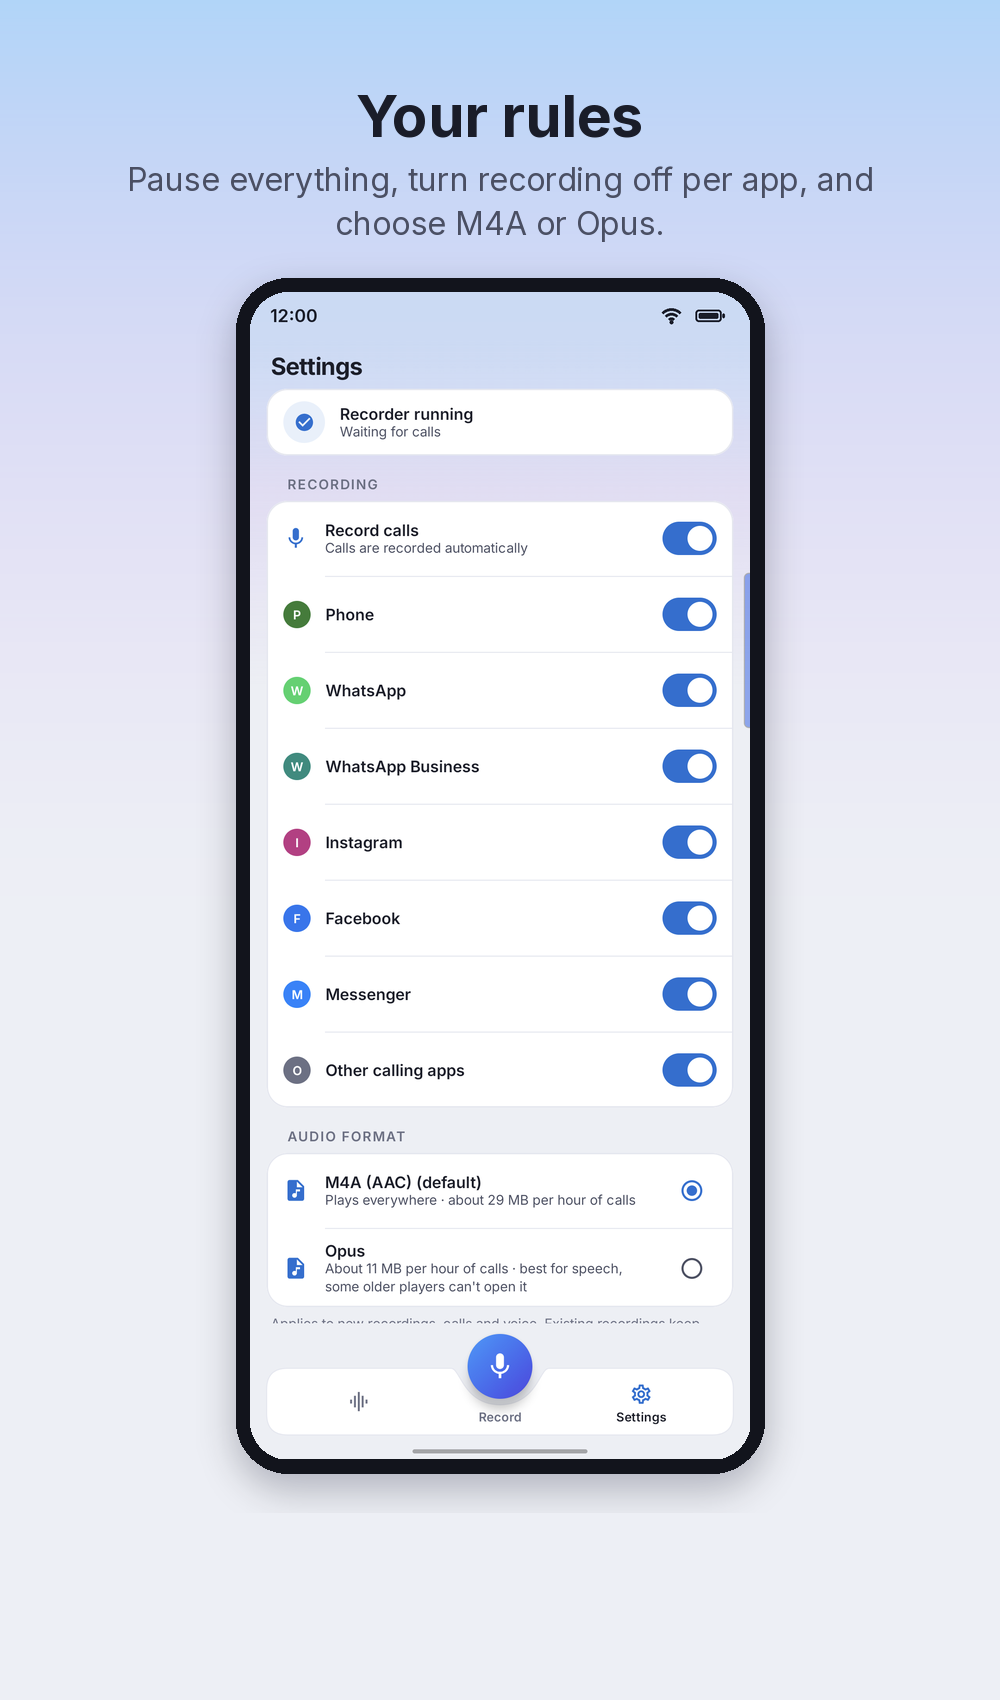
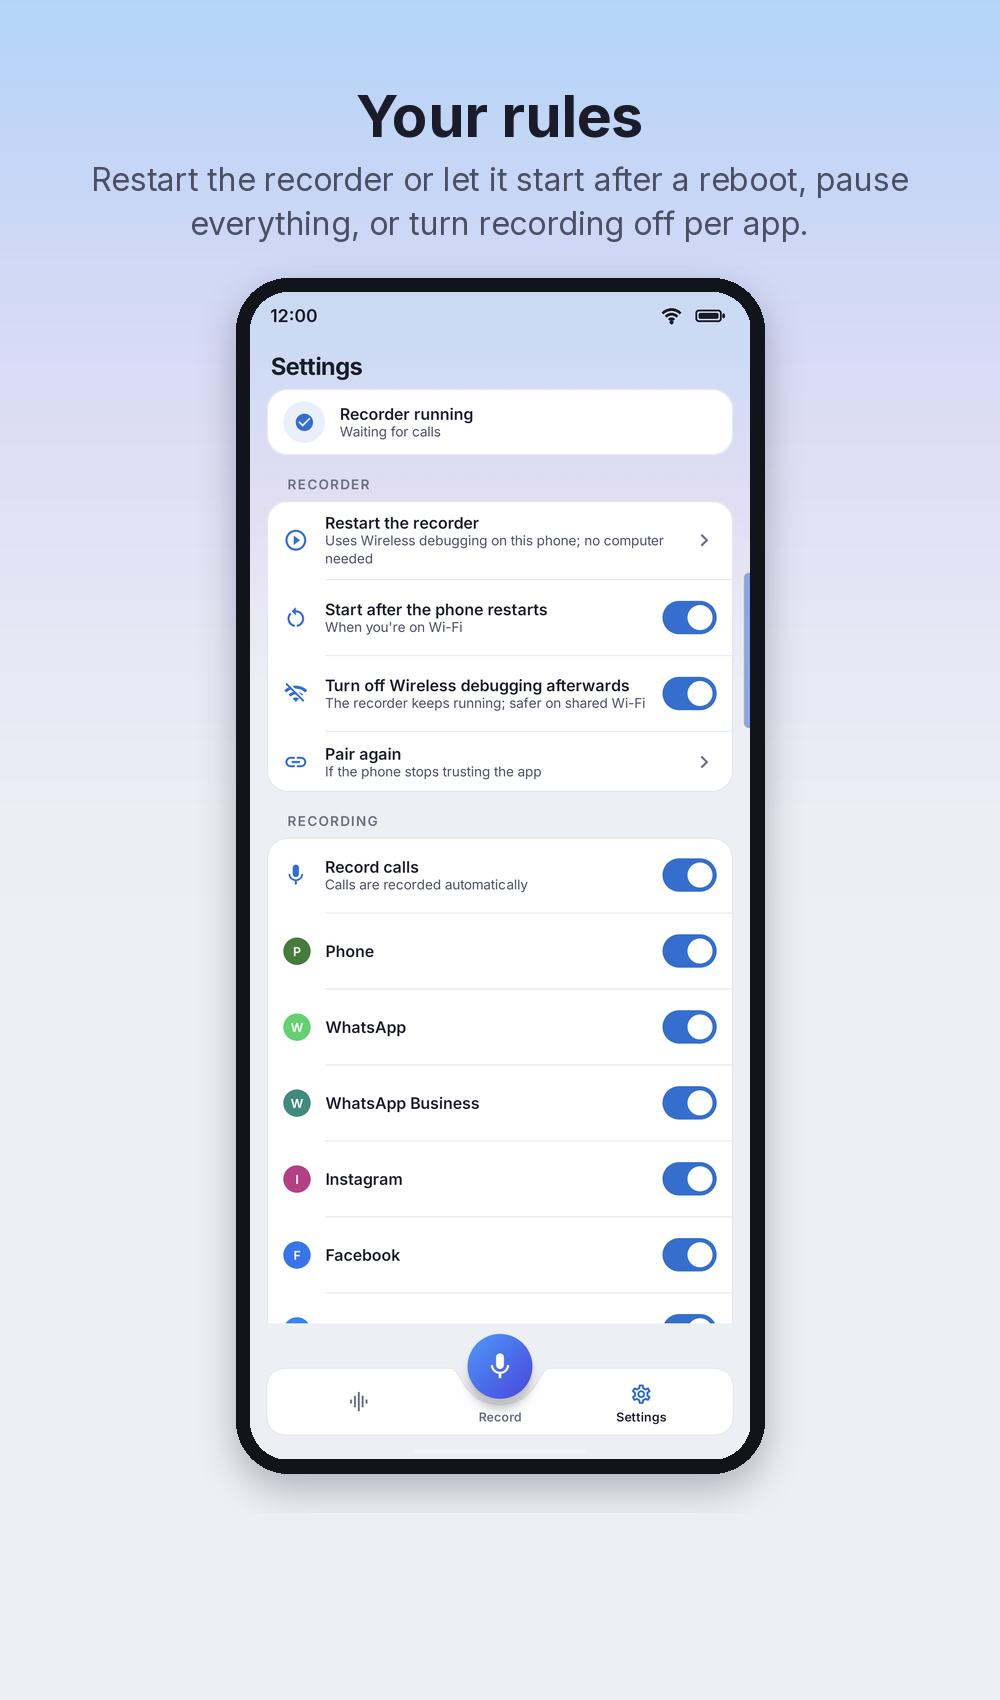
Screenshots: on-phone setup tile, Settings with the Recorder section

diff --git a/docs/screenshots/make.py b/docs/screenshots/make.py
@@ -138,7 +138,8 @@ def card(title, caption, shots, name, w=1000, h=1700):
         for i, p in enumerate(ps):
             img.alpha_composite(p, (x, y - round(420 * 0.08) + i * 60))
             x += p.width + gap
-    img.convert("RGB").save(OUT / name, optimize=True)
+    if name:
+        img.convert("RGB").save(OUT / name, optimize=True)
     return img
 
 
@@ -170,6 +171,25 @@ def notification_card(shade, name, w=1000, h=1700):
     img.convert("RGB").save(OUT / name, optimize=True)
 
 
+def setup_card(shot, shade, name, w=1000, h=1700):
+    """The on-phone setup screen, with the pairing-code notification floating over it."""
+    img = card("No computer, no root",
+               "A two-minute setup pairs the app with your phone's own Wireless debugging. "
+               "Type the code right in the notification.", [shot], None, w, h)
+    crop = shade.convert("RGB").crop((39, 296, 1041, 578))
+    cw = w - 140
+    crop = crop.resize((cw, round(crop.height * cw / crop.width)), Image.LANCZOS)
+    r = round(crop.height * 0.22)
+    mask = Image.new("L", crop.size, 0)
+    ImageDraw.Draw(mask).rounded_rectangle([0, 0, crop.width, crop.height], radius=r, fill=255)
+    y = h - crop.height - 120
+    sh = Image.new("RGBA", img.size, (0, 0, 0, 0))
+    ImageDraw.Draw(sh).rounded_rectangle([70, y + 18, 70 + crop.width, y + 18 + crop.height], radius=r, fill=(20, 24, 60, 110))
+    img.alpha_composite(sh.filter(ImageFilter.GaussianBlur(24)))
+    img.paste(crop, (70, y), mask)
+    img.convert("RGB").save(OUT / name, optimize=True)
+
+
 def hero(shots, name, w=2000, h=1100):
     img = ground(w, h).convert("RGBA")
     d = ImageDraw.Draw(img)
@@ -181,9 +201,9 @@ def hero(shots, name, w=2000, h=1100):
     d.text((x0, 455), "Every call on your phone, recorded automatically.", font=font(34, "Medium"), fill=TEXT2)
     bullets = [
         "Phone, WhatsApp, Instagram and Facebook calls",
+        "No computer or root: two-minute setup",
         "Sorted by app and contact, renamable",
-        "Built-in player and voice recorder",
-        "Live notification, Never-record list",
+        "Player, voice recorder, live notification",
         "Light and dark, no ads, open source",
     ]
     y = 560
@@ -201,7 +221,8 @@ def hero(shots, name, w=2000, h=1100):
 
 def main():
     OUT.mkdir(parents=True, exist_ok=True)
-    s = {p.stem: clean_status_bar(Image.open(p)) for p in RAW.glob("*.png") if p.stem != "05-notification-shade"}
+    shades = {"05-notification-shade", "12-pairing-notification"}
+    s = {p.stem: clean_status_bar(Image.open(p)) for p in RAW.glob("*.png") if p.stem not in shades}
     hero([s["01-recordings"], s["02-contact"], s["10-recordings-dark"]], "hero.png")
     card("Every call, sorted by app and contact",
          "Phone, WhatsApp, Instagram and Facebook calls land in one list, grouped by who you talked to.",
@@ -216,8 +237,9 @@ def main():
          "The Record button sits in the middle of the bar. It keeps recording with the screen off.",
          [s["04-voice-recording"]], "04-voice-recorder.png")
     notification_card(Image.open(RAW / "05-notification-shade.png"), "05-notification.png")
+    setup_card(s["09-setup"], Image.open(RAW / "12-pairing-notification.png"), "09-setup.png")
     card("Your rules",
-         "Pause everything, turn recording off per app, and choose M4A or Opus.",
+         "Restart the recorder or let it start after a reboot, pause everything, or turn recording off per app.",
          [s["06-settings-top"]], "06-settings.png")
     card("Never record some people",
          "Pick contacts or type a name or username. Their calls are skipped.",

diff --git a/README.md b/README.md
@@ -16,16 +16,19 @@ Automatic call recorder for Android 12 and later, built and tested on a Samsung 
 ## Screenshots
 
 <p align="center">
-  <img src="docs/screenshots/01-recordings.png" width="24%" alt="Every call, sorted by app and contact">
-  <img src="docs/screenshots/02-contact.png" width="24%" alt="Rename what matters">
-  <img src="docs/screenshots/03-player.png" width="24%" alt="Built-in player">
-  <img src="docs/screenshots/04-voice-recorder.png" width="24%" alt="One-tap voice recorder">
+  <img src="docs/screenshots/01-recordings.png" width="32%" alt="Every call, sorted by app and contact">
+  <img src="docs/screenshots/02-contact.png" width="32%" alt="Rename what matters">
+  <img src="docs/screenshots/03-player.png" width="32%" alt="Built-in player">
 </p>
 <p align="center">
-  <img src="docs/screenshots/05-notification.png" width="24%" alt="Live notification while recording">
-  <img src="docs/screenshots/06-settings.png" width="24%" alt="Your rules: per-app switches and audio format">
-  <img src="docs/screenshots/07-never-record.png" width="24%" alt="Never record some people">
-  <img src="docs/screenshots/08-light-dark.png" width="24%" alt="Light and dark themes">
+  <img src="docs/screenshots/04-voice-recorder.png" width="32%" alt="One-tap voice recorder">
+  <img src="docs/screenshots/05-notification.png" width="32%" alt="Live notification while recording">
+  <img src="docs/screenshots/09-setup.png" width="32%" alt="No computer, no root: two-minute setup">
+</p>
+<p align="center">
+  <img src="docs/screenshots/06-settings.png" width="32%" alt="Your rules: recorder controls and per-app switches">
+  <img src="docs/screenshots/07-never-record.png" width="32%" alt="Never record some people">
+  <img src="docs/screenshots/08-light-dark.png" width="32%" alt="Light and dark themes">
 </p>
 
 <sub>Screenshots use fictional names and numbers. They're rebuilt from on-device captures with
